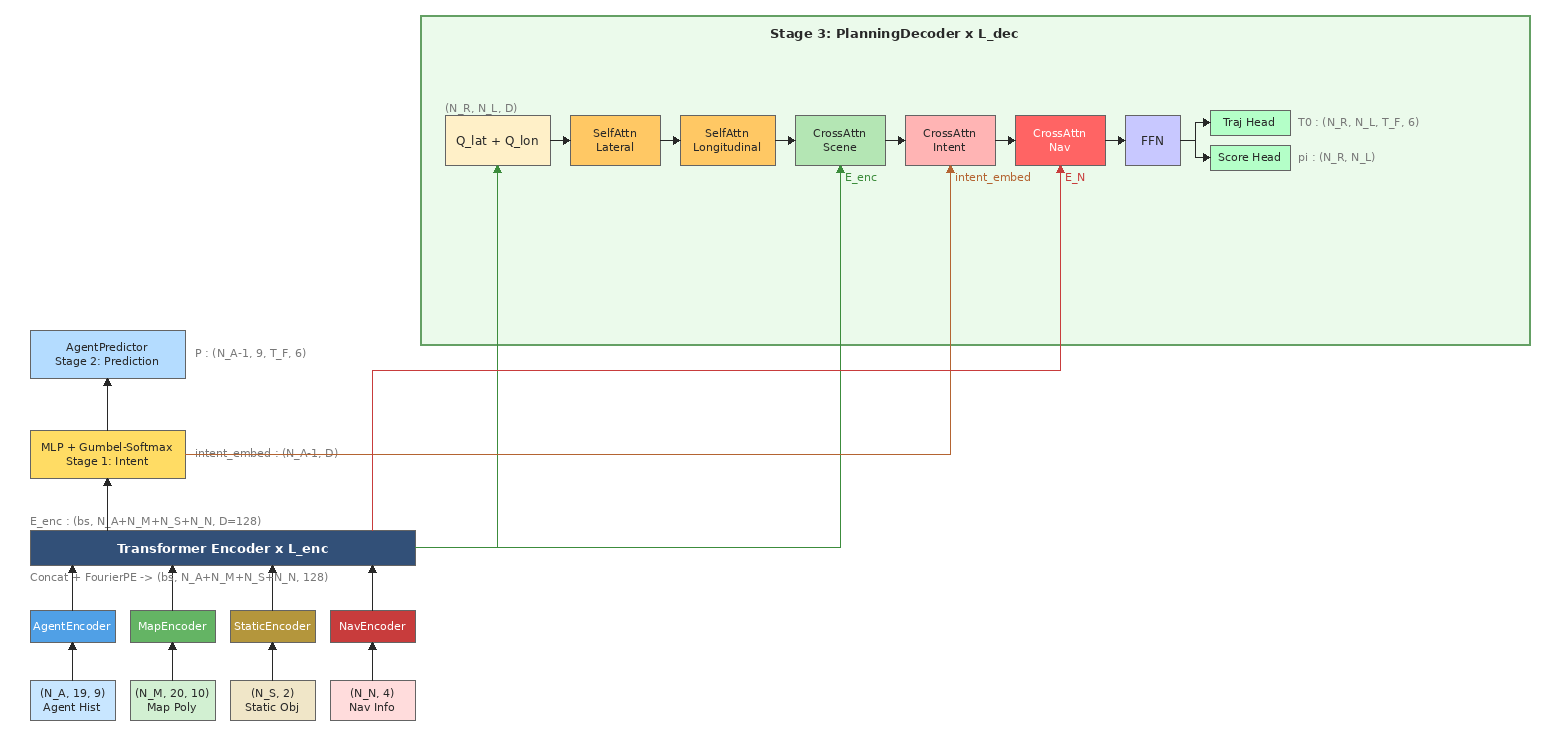
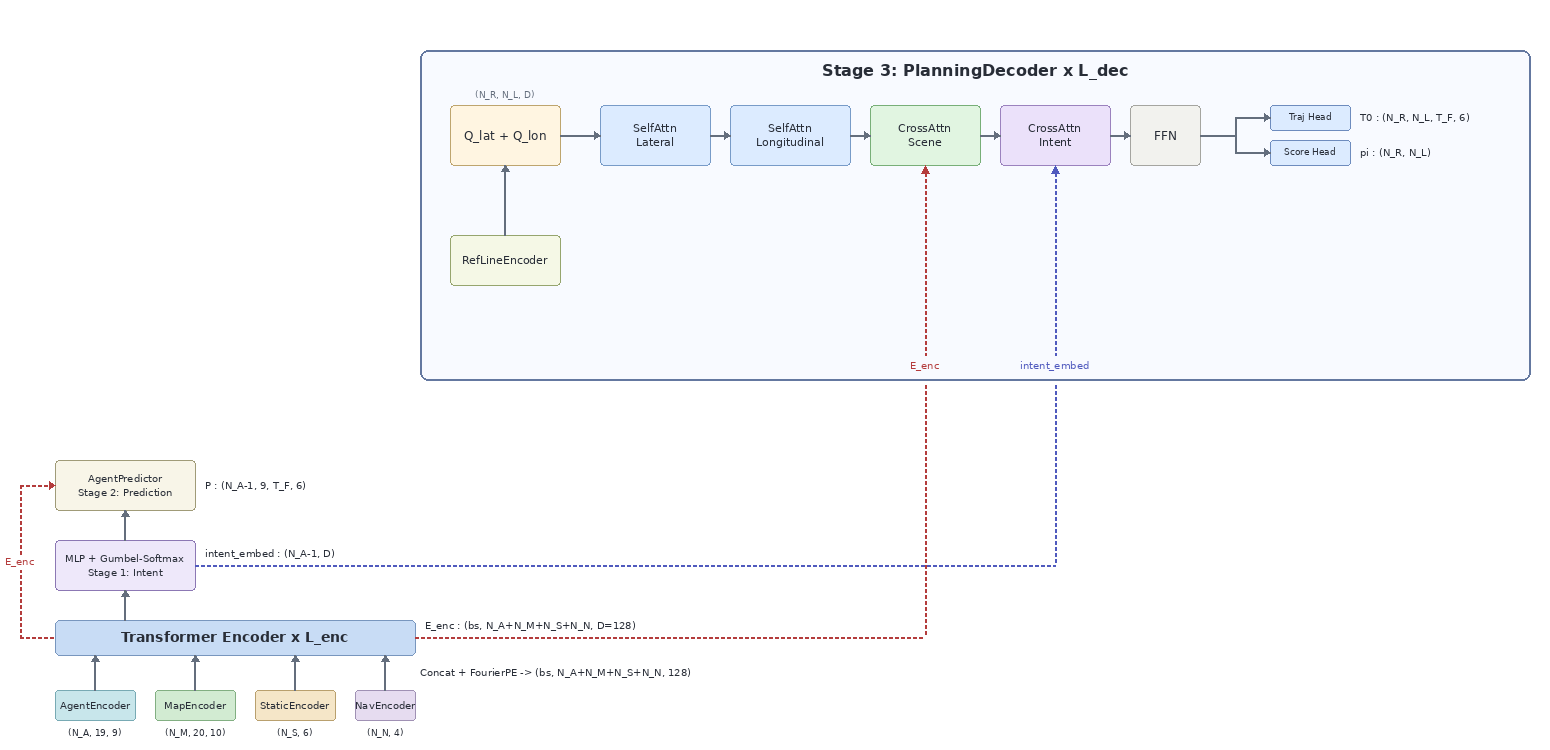
update readme

diff --git a/README.md b/README.md
@@ -107,9 +107,9 @@
 | --- | --- |
 | A = {A₀, ..., Aₙₐ} | 动态障碍物集合，A₀为自车 |
 | O = {O₁, ..., Oₙₛ} | 静态障碍物集合 |
-| M | 地图（车道多边形 + 车道属性） |
+| M | 地图 |
 | C | 交通信号上下文（红绿灯历史状态序列） |
-| N | 导航信息（路线点、车道箭头、引导动作） |
+| N | 导航信息（路线点、车道属性、导航动作） |
 | T₀ | 自车输出的 N_R × N_L 条规划轨迹 |
 | π₀ | 每条轨迹的置信度分数 |
 | P₁:Nₐ | 障碍物多模态预测轨迹（每个障碍物 9 条决策条件化轨迹） |
@@ -117,7 +117,7 @@
 
 
 ##### ② 数据处理
-基于plan_debug_msg的定位时间**localization_timestamp，**找到与其最近的loc_msg，提取自车、障碍物及地图及导航信息，通过数据清洗得到最终数据
+基于plan_debug_msg的定位时间localization_timestamp，找到与其最近的loc_msg，提取自车、障碍物、地图及导航信息，通过数据清洗得到最终数据
 
 **定位信息处理：**
 
@@ -138,7 +138,7 @@
 
 ```plain
 定位模块输出: pose(4x4), vel(m/s), acc(m/s²), wheel_angle(rad), yaw_rate(rad/s)
-人机交互输入: turn_signal ∈ {0=关, 1=左拨杆, 2=右拨杆}
+交互输入: turn_signal ∈ {0=关, 1=左拨杆, 2=右拨杆}
   → 提取当前帧自车 7 维运动状态:
       x, y      ← pose[:2, 3]                 (位置)
       θ         ← pose 旋转矩阵反解            (航向)
@@ -151,7 +151,7 @@
           —— 二者作为模型的自车输入
 ```
 
-> 模型不输入自车历史轨迹，仅输入**当前帧** 7 维运动状态与拨杆信号；运动历史信息通过障碍物/车道线的时序输入隐式获取（历史帧坐标已补偿到当前帧，帧间位置差异反映了自车运动）。拨杆信号显式表达驾驶员的变道意图，让模型在变道触发时能直接响应而无需依靠场景推断。
+> 模型不输入自车历史轨迹，仅输入当前帧 7 维运动状态与拨杆信号；拨杆信号显式表达驾驶员的变道意图，让模型在变道触发时能直接响应而无需依靠场景推断。
 >
 
 **障碍物处理（process_obstacle_info）：**
@@ -368,17 +368,15 @@ def get_effective_endpoint(obs_traj, obs_heading, valid_mask):
 ```plain
 感知输出: pts(N,20,2), pts_xushi(N,19), pts_yanse(N,19), labels(N,), scores(N,)
   → 感知范围裁剪
-  → 属性修正: 路沿(label=1)虚实/颜色清零，护栏(label=2)虚实设1/颜色清零
-  → 按置信度降序排列，截断到 max_instance (N_M)，不够的 padding 零
+  → 按置信度降序排列，截断到 max_instance (N_L)，不够的 padding 零
   → 缓存到历史队列
   → 时序打包（pack_temporal_info, hist_ts 帧历史）:
       对每个历史帧:
         ① 坐标补偿: rela_pose 变换 20 个采样点到当前帧
         ② 随机丢弃: 以 line_drop_prob 概率 mask 掉部分车道线
         ③ 计算时间差: lanes_time = now_time - frame_time
-  → 输出: lanes_pts (T_M, N_M, 20, 2), lanes_pts_xushi (T_M, N_M, 19),
-          lanes_pts_yanse (T_M, N_M, 19), lanes_score (T_M, N_M),
-          lanes_label (T_M, N_M), lanes_time (T_M,), lanes_mask (T_M, N_M)
+  → 输出: lanes_pts (T_M, N_L, 20, 2),
+          lanes_time (T_M,), lanes_mask (T_M, N_L)
 ```
 
 > 车道线为时序输入，与 LaneEncoder（时序编码）对齐。多帧叠加 + time_embedding 使模型对感知闪烁更鲁棒。
@@ -415,7 +413,7 @@ def get_effective_endpoint(obs_traj, obs_heading, valid_mask):
   → 倒序填充固定数组:
       从最新帧往回填，不够的保持零 + mask=True
   → 距离归一化: dist / 75（映射到 0~2 范围）
-  → 输出: attr (T_C, 3), dist (T_C,), mask (T_C,)
+  → 输出: attr (T_C, 3), dist (T_C, 1), mask (T_C, 1)
 ```
 
 > 红绿灯为时序输入，与 ContextEncoder 对齐。多帧历史状态使模型能感知信号灯变化趋势（如即将变绿）。
@@ -424,6 +422,23 @@ def get_effective_endpoint(obs_traj, obs_heading, valid_mask):
 **导航数据提取与处理：**
 
 除自车/障碍物/车道线数据外，还需提取高德导航信息（amap_navi），为模型提供全局路线引导。导航数据的处理流程：
+
+```python
+lane_info = {
+    "dist": 150.0,                    # 距路口距离
+    "back_lanes": [                   # 路口前车道
+        {"lane_action": 1},           # 车道1: 左转
+        {"lane_action": 0},           # 车道2: 直行
+        {"lane_action": 3}            # 车道3: 右转
+    ],
+    "front_lanes": [                  # 路口后车道
+        {"lane_action": 1},           # 对应车道1
+        {"lane_action": 0},           # 对应车道2
+        {"lane_action": 3}            # 对应车道3
+    ],
+    "extend_lanes": []                # 无扩展车道
+}
+```
 
 | 处理步骤 | 功能说明 |
 | :---: | --- |
@@ -476,7 +491,7 @@ def get_effective_endpoint(obs_traj, obs_heading, valid_mask):
 ```python
 ego_state = [x, y, θ, v, a, δ, ω]                      # 7维连续运动状态
 turn_signal_emb = turn_signal_embedding(turn_signal)   # nn.Embedding(3, D)，{0关 / 1左 / 2右}
-E_AV = StateAttentionEncoder(ego_state) + turn_signal_emb  # → (bs, 1, D=128)
+E_AV = StateDropoutAttentionEncoder(ego_state) + turn_signal_emb  # → (bs, 1, D=128)
 ```
 
 > 拨杆信号通过 `nn.Embedding(num_classes=3, dim=D)` 查表得到 D 维嵌入，与运动状态编码相加后融入 E_AV，使得变道触发时刻自车 token 直接携带"我要往左/往右"的语义。
@@ -530,18 +545,15 @@ agent_feature = torch.cat([
 
 **地图编码（MapEncoder）— 时序编码**
 
-| 地图特征 | 大小（N_M 表示单帧车道多边形数量；时序拼接 T_M = 20 帧） |
+| 地图特征 | 大小（N_M 为车道多边形数量，n_p = 20 为采样点数） |
 | :---: | :---: |
-| point_position | (N_M, 20, 3, 2) |
-| point_vector | (N_M, 20, 2) |
-| point_orientation | (N_M, 20) |
-| polygon_center | (N_M, 2) |
-| lane_type | (N_M, 1) |
-| speed_limit | (N_M, 1) |
-| valid_mask | (N_M, 1) |
+| F_P (polygon_feature) | (N_M, n_p, 10) |
+| lane_type | (N_M,) |
+| speed_limit | (N_M,) |
+| valid_mask | (N_M, n_p) |
 
 
-几何特征（point_*、polygon_center、valid_mask）刻画车道**形状**；属性特征刻画车道**语义**：
+几何特征（point_*、valid_mask）刻画车道**形状**；属性特征刻画车道**语义**：
 
 + `lane_type`：车道类型 ID（普通车道 / 匝道 / 应急车道 / HOV 等），离散值，查表 Embedding
 + `speed_limit`：该车道限速（km/h），连续值，傅里叶编码
